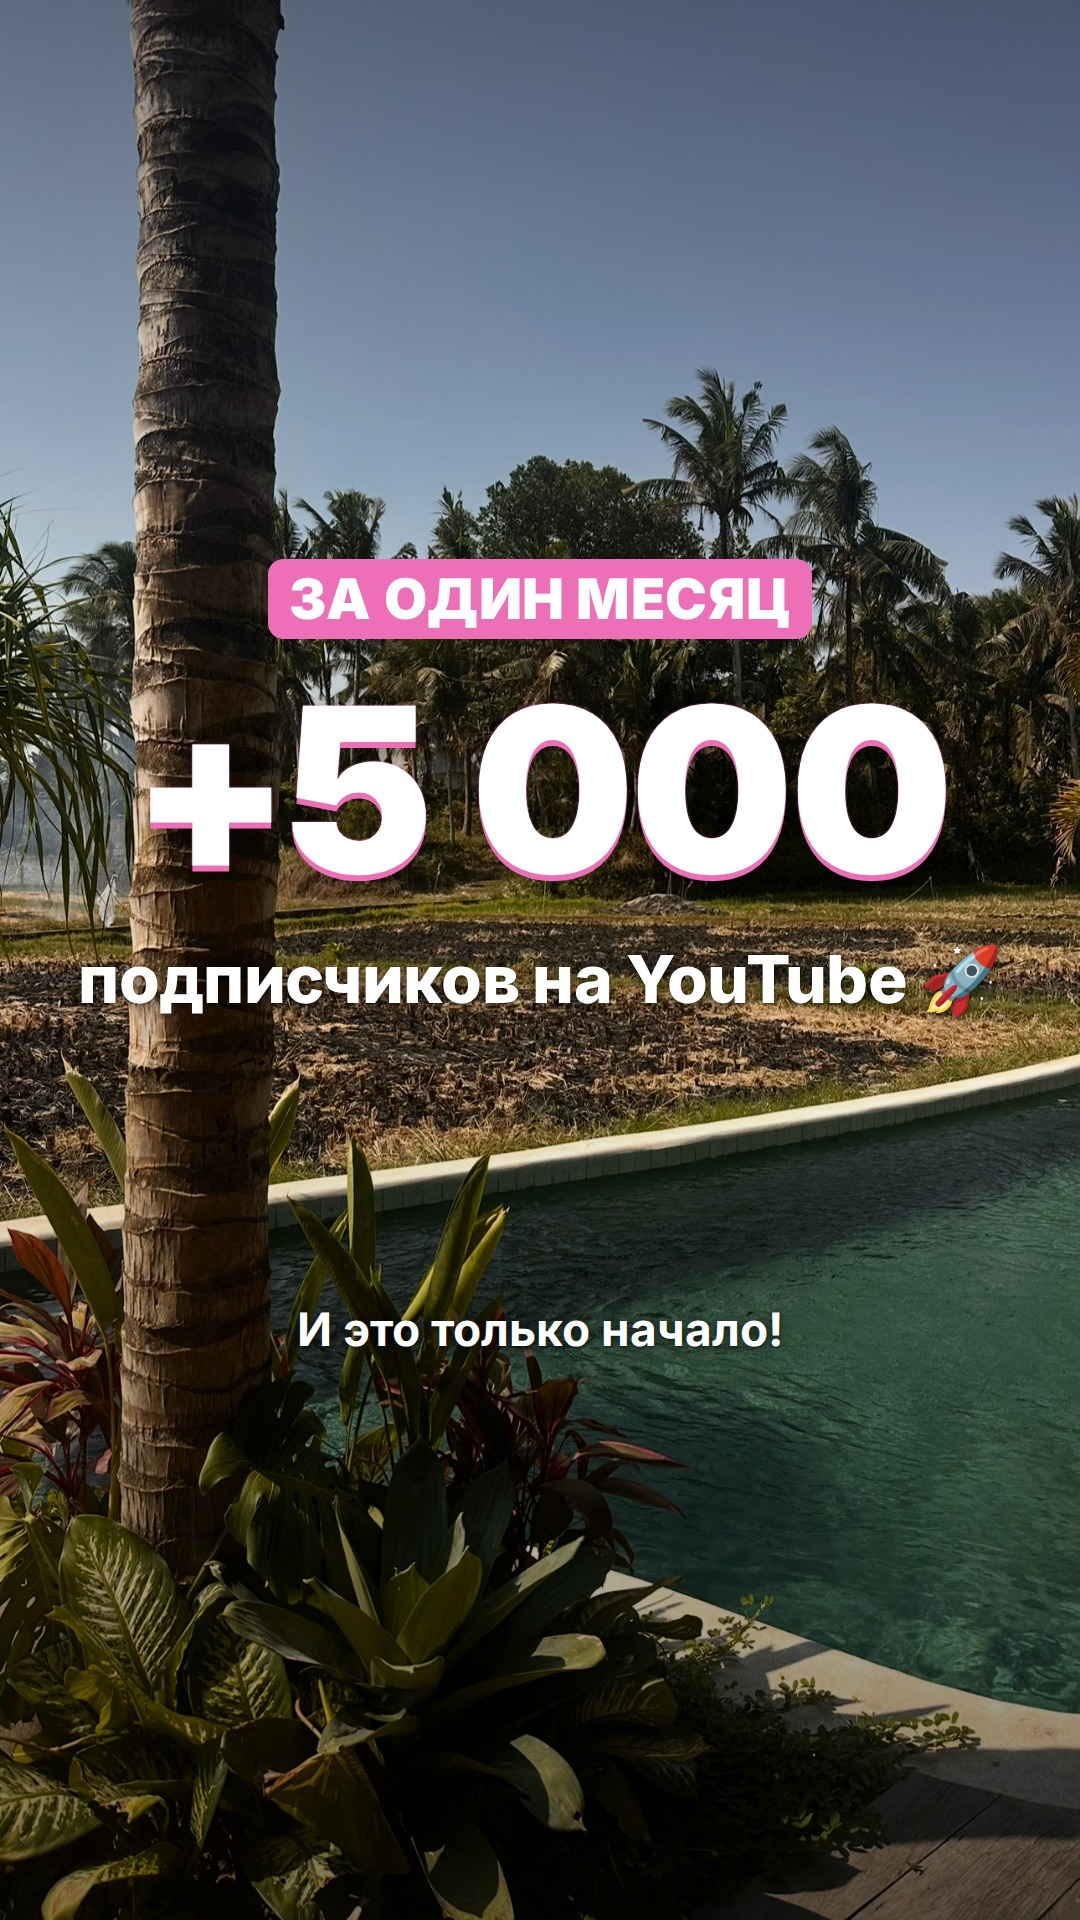
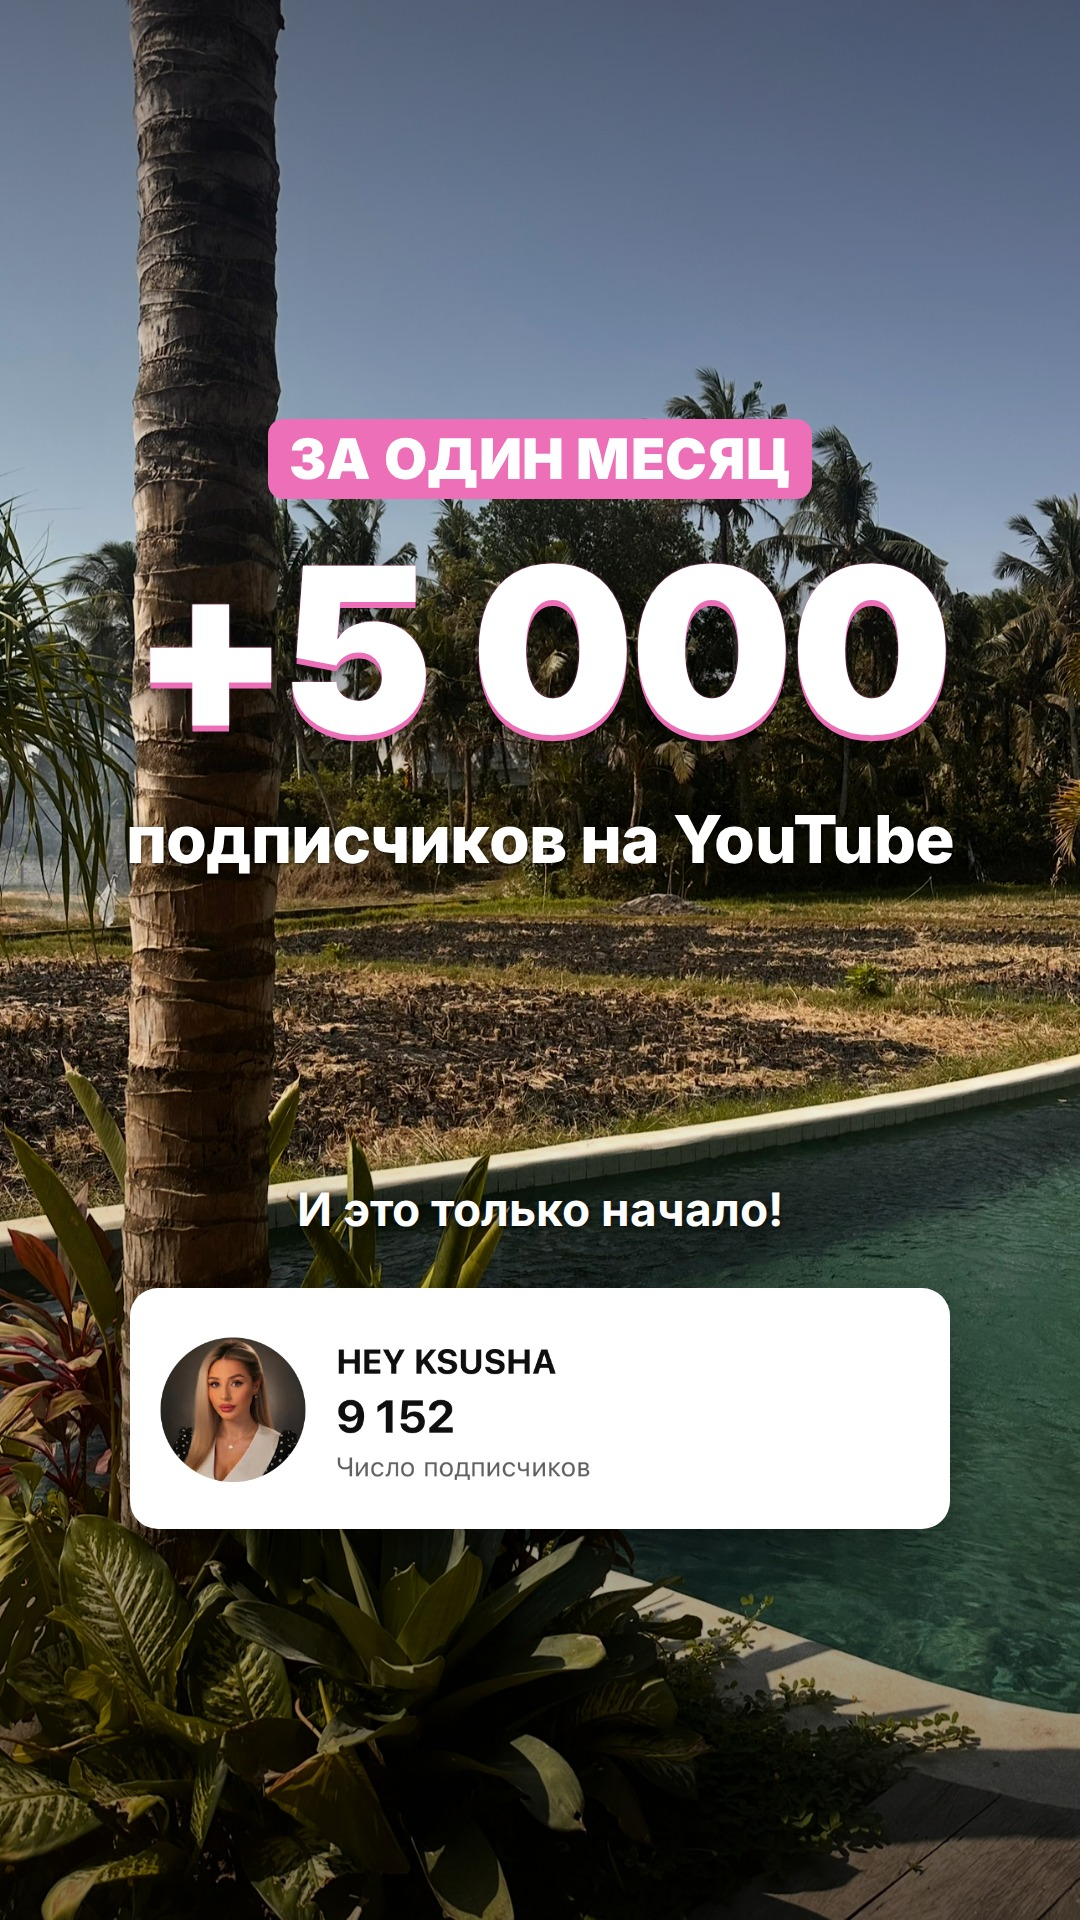
Сторис: без смайликов, белая плашка, скрин подписчиков, скрины благодарностей
Claude-Session: https://claude.ai/code/session_01QvxPhZFmoV4wpS6odsdhe8

Changed region(s): [[0.1222, 0.2188, 0.8861, 0.4688], [0.0917, 0.5938, 0.8861, 0.8125], [0.0611, 0.4688, 0.9167, 0.5312]]

diff --git a/guides/src/stories.js b/guides/src/stories.js
@@ -1,85 +1,85 @@
 // v2: одна мысль на сторис, лицо открыто, длинный текст — заметкой на нейтральном фоне
-module.exports = ({ P, B, E, I, GAP, p, T, SM, N }) => [
+module.exports = ({ P, W, B, E, I, GAP, p, T, SM, N }) => [
   // 1 — лицо в центре, текст сверху и снизу
-  { bg: '27.jpg', groups: [
+  { bg:'27.jpg', groups: [
     { top: 170, items: [P('ДЕВОЧКИ, Я В ШОКЕ!!!', 66)] },
-    { top: 1420, items: [T('Моя детская мечта<br>сбылась 🥹❤', 84)] },
+    { top: 1420, items: [W('Моя детская мечта сбылась', 64)] },
   ] },
   // 2 — +5&nbsp;000
-  { bg: '21.jpg', groups: [
-    { top: 560, items: [P('ЗА ОДИН МЕСЯЦ', 56), GAP(6), B('+5&nbsp;000', 230), GAP(10), T('подписчиков на YouTube 🚀', 66)] },
-    { top: 1300, items: [SM('И это только начало!', 46)] },
+  { bg:'21.jpg', groups: [
+    { top: 420, items: [P('ЗА ОДИН МЕСЯЦ', 56), GAP(6), B('+5&nbsp;000', 230), GAP(10), T('подписчиков на YouTube', 66)] },
+    { top: 1180, items: [SM('И это только начало!', 46), GAP(20), I('s06.PNG', 820)] },
   ] },
   // 3 — не цифры + заметка
-  { bg: '20.jpg', groups: [
-    { top: 260, items: [P('НО САМОЕ ЦЕННОЕ —', 56), T('даже не цифры…', 84)] },
-    { top: 760, items: [N(`За месяц — больше <span class=acc>1&nbsp;000</span> ваших комментариев и благодарностей 🥹<br><br>«Ксюша, ты поменяла мою жизнь!»<br>«Я так рада, что нашла твой канал!»`, 44)] },
+  { bg:'20.jpg', groups: [
+    { top: 200, items: [P('НО САМОЕ ЦЕННОЕ —', 56), T('даже не цифры,<br>а ваши благодарности', 76)] },
+    { top: 720, items: [I('s12.JPG', 920, -2), GAP(16), I('s16.JPG', 960, 1.5), GAP(16), I('s13.JPG', 960, -1)] },
   ] },
   // 4 — селфи, текст внизу
-  { bg: '17.jpg', pos: '50% 35%', groups: [
-    { top: 1330, items: [P('И Я ПОНЯЛА:', 52), T('длинный контент —<br>это моё ❤', 80), GAP(8), SM('Здесь я говорю с вами по душам,<br>как с подругами', 40)] },
+  { bg:'17.jpg', pos:'50% 35%', groups: [
+    { top: 1330, items: [P('И Я ПОНЯЛА:', 52), T('длинный контент —<br>это моё', 80), GAP(8), SM('Здесь я говорю с вами по душам,<br>как с подругами', 40)] },
   ] },
   // 5 — 80&nbsp;000
-  { bg: '23.jpg', groups: [
-    { top: 230, items: [P('МОИ РОЛИКИ НАБИРАЮТ', 54), GAP(4), B('80&nbsp;000', 210), GAP(8), T('просмотров 🔥', 70)] },
+  { bg:'23.jpg', groups: [
+    { top: 230, items: [P('МОИ РОЛИКИ НАБИРАЮТ', 54), GAP(4), B('80&nbsp;000', 210), GAP(8), T('просмотров', 70)] },
     { top: 1000, items: [I('s07.JPG', 960)] },
   ] },
   // 6 — комментарии
-  { bg: '03.jpg', groups: [
-    { top: 200, items: [P('ПОСМОТРИТЕ, ЧТО ВЫ ПИШЕТЕ 💌', 50)] },
-    { top: 560, items: [I('s12.JPG', 920, -2), GAP(16), I('s14.JPG', 960, 1.5), GAP(16), I('s10.JPG', 960, -1)] },
+  { bg:'03.jpg', groups: [
+    { top: 200, items: [P('ПОСМОТРИТЕ, ЧТО ВЫ ПИШЕТЕ', 50)] },
+    { top: 560, items: [I('s14.JPG', 960, -1.5), GAP(16), I('s10.JPG', 960, 1.5), GAP(16), I('s09.JPG', 960, -1)] },
   ] },
   // 7 — ради таких сообщений
-  { bg: '24.jpg', groups: [
-    { top: 180, items: [P('ВОТ РАДИ ТАКИХ СООБЩЕНИЙ', 54), T('я и делаю то, что делаю ❤', 64)] },
+  { bg:'24.jpg', groups: [
+    { top: 180, items: [P('ВОТ РАДИ ТАКИХ СООБЩЕНИЙ', 54), T('я и делаю то, что делаю', 64)] },
     { top: 640, items: [I('s15.JPG', 980, -1.5), GAP(20), I('s11.JPG', 980, 1.2)] },
   ] },
   // 8 — боль
-  { bg: '19.jpg', groups: [
-    { top: 620, items: [P('НО ЗНАЕТЕ, ЧТО МЕНЯ ЗАДЕВАЕТ? 💔', 52), GAP(10), T('Сколько девушек<br>прямо сейчас страдают<br>из-за отношений…', 80)] },
+  { bg:'19.jpg', groups: [
+    { top: 620, items: [P('НО ЗНАЕТЕ, ЧТО МЕНЯ ЗАДЕВАЕТ?', 52), GAP(10), T('Сколько девушек<br>прямо сейчас страдают<br>из-за отношений…', 80)] },
   ] },
   // 9 — заметка с фразами
-  { bg: '02.jpg', groups: [
+  { bg:'02.jpg', groups: [
     { top: 300, items: [P('Я КАЖДЫЙ ДЕНЬ ЧИТАЮ:', 56)] },
-    { top: 520, items: [N('💔 «Я опять выбрала не того…»<br>💔 «Он пропадает, а я продолжаю ждать…»<br>💔 «Он пишет раз в три дня, а я живу от сообщения до сообщения»<br>💔 «Все подруги замужем, а я одна»<br>💔 «Я красивая, успешная, но почему меня никто не выбирает?»<br><br><b>И многие думают, что проблема в них самих…</b>', 42)] },
+    { top: 520, items: [N('— «Я опять выбрала не того…»<br>— «Он пропадает, а я продолжаю ждать…»<br>— «Он пишет раз в три дня, а я живу от сообщения до сообщения»<br>— «Все подруги замужем, а я одна»<br>— «Я красивая, успешная, но почему меня никто не выбирает?»<br><br><b>И многие думают, что проблема в них самих…</b>', 42)] },
   ] },
   // 10 — опрос (место под стикер в центре)
-  { bg: '26.jpg', groups: [
-    { top: 150, items: [P('А ТЫ ХОТЯ БЫ РАЗ', 56), T('чувствовала что-то<br>подобное? 🤍', 80)] },
+  { bg:'26.jpg', groups: [
+    { top: 150, items: [P('А ТЫ ХОТЯ БЫ РАЗ', 56), T('чувствовала что-то<br>подобное?', 80)] },
   ] },
   // 11 — идея, заметка на размытом фоне
-  { bg: '18.jpg', filter: 'blur(34px) brightness(.95) saturate(1.2)', groups: [
-    { top: 300, items: [P('И ВОТ КАКАЯ ИДЕЯ', 56), T('пришла мне в голову… 🌸', 70)] },
-    { top: 700, items: [N(`Я физически не могу ответить на тысячи ваших сообщений.<br><br>А за каждым — настоящая девушка со своей историей.<br><br>Мне хочется не просто записывать видео, а <span class=acc>лично поговорить с вами</span> и помочь разобраться ❤`, 44)] },
+  { bg:'18.jpg', filter:'blur(34px) brightness(.95) saturate(1.2)', groups: [
+    { top: 300, items: [P('И ВОТ КАКАЯ ИДЕЯ', 56), T('пришла мне в голову…', 70)] },
+    { top: 700, items: [N(`Я физически не могу ответить на тысячи ваших сообщений.<br><br>А за каждым — настоящая девушка со своей историей.<br><br>Мне хочется не просто записывать видео, а <span class=acc>лично поговорить с вами</span> и помочь разобраться`, 44)] },
   ] },
   // 12 — закрытый девичник
-  { bg: '28.jpg', groups: [
-    { top: 150, items: [P('Я ВПЕРВЫЕ ПРОВОЖУ', 56), T('закрытый<br>онлайн-девичник 💗', 80)] },
+  { bg:'28.jpg', groups: [
+    { top: 150, items: [P('Я ВПЕРВЫЕ ПРОВОЖУ', 56), T('закрытый<br>онлайн-девичник', 80)] },
     { top: 640, items: [I('s29.PNG', 820, -2)] },
-    { top: 1500, items: [P('25 ОКТЯБРЯ · 15:00 МСК', 56), SM('бесплатно 🎀', 46)] },
+    { top: 1500, items: [P('25 ОКТЯБРЯ · 15:00 МСК', 56), SM('бесплатно', 46)] },
   ] },
   // 13 — что подготовила
-  { bg: '25.jpg', groups: [
-    { top: 200, items: [P('ЧТО Я ПОДГОТОВИЛА 🎁', 58)] },
-    { top: 420, items: [N(`🔍 Лично разберу <span class=acc>5 ваших историй</span> в прямом эфире<br><br>💸 Обычно такой разбор стоит <span class=acc>50&nbsp;000 ₽</span> — для вас бесплатно<br><br>💗 Подруги, которые тебя поймут<br><br>❤ Слова, которые могут поменять твою жизнь`, 44)] },
+  { bg:'25.jpg', groups: [
+    { top: 200, items: [P('ЧТО Я ПОДГОТОВИЛА', 58)] },
+    { top: 420, items: [N(`1. Лично разберу<span class=acc>5 ваших историй</span> в прямом эфире<br><br>2. Обычно такой разбор стоит<span class=acc>50&nbsp;000 ₽</span> — для вас бесплатно<br><br>3. Подруги, которые тебя поймут<br><br>4. Слова, которые могут поменять твою жизнь`, 44)] },
   ] },
   // 14 — исключительность, лицо карточкой
-  { bg: '18.jpg', filter: 'blur(34px) brightness(.9) saturate(1.2)', groups: [
-    { top: 200, items: [P('ТАКОГО Я ЕЩЁ<br>НИКОГДА НЕ ДЕЛАЛА 🤫', 54)] },
+  { bg:'18.jpg', filter:'blur(34px) brightness(.9) saturate(1.2)', groups: [
+    { top: 200, items: [P('ТАКОГО Я ЕЩЁ<br>НИКОГДА НЕ ДЕЛАЛА', 54)] },
     { top: 420, items: [I('18.jpg', 960, -1.5)] },
-    { top: 1080, items: [T(`❗ Записи не будет`, 84), GAP(6), SM('Мест в комнате немного', 48)] },
+    { top: 1080, items: [T(`Записи не будет`, 84), GAP(6), SM('Мест в комнате немного', 48)] },
   ] },
   // 15 — ХОЧУ
-  { bg: '01.jpg', pos: '30% 50%', groups: [
-    { top: 1080, items: [P('ХОЧЕШЬ ПОПАСТЬ? 💌', 58), T(`Напиши мне в директ<br>«ХОЧУ»`, 84), GAP(6), SM('— пришлю ссылку лично', 46)] },
+  { bg:'01.jpg', pos:'30% 50%', groups: [
+    { top: 1080, items: [P('ХОЧЕШЬ ПОПАСТЬ?', 58), T(`Напиши мне в директ<br>«ХОЧУ»`, 84), GAP(6), SM('— пришлю ссылку лично', 46)] },
   ] },
   // 16 — 5 историй, вопрос
-  { bg: '22.jpg', groups: [
-    { top: 1150, items: [P('Я РАЗБЕРУ ТОЛЬКО 5 ИСТОРИЙ 🔍', 50), T('А вдруг одна из них —<br>твоя? 🥹', 78), GAP(6), SM('Можно анонимно 🤫', 44)] },
+  { bg:'22.jpg', groups: [
+    { top: 1150, items: [P('Я РАЗБЕРУ ТОЛЬКО 5 ИСТОРИЙ', 50), T('А вдруг одна из них —<br>твоя?', 78), GAP(6), SM('Можно анонимно', 44)] },
   ] },
   // 17 — финал, отсчёт
-  { bg: '21.jpg', filter: 'saturate(1.1)', groups: [
-    { top: 300, items: [P('Я УЖЕ В ПРЕДВКУШЕНИИ', 56), T('нашей встречи!!! 🥹', 80), GAP(6), SM('Уже выбираю, в чём буду с вами 🙈', 44)] },
-    { top: 1400, items: [P('25 ОКТЯБРЯ · 15:00 МСК', 56), SM('Заходи, пока комната открыта 💗', 46)] },
+  { bg:'21.jpg', filter:'saturate(1.1)', groups: [
+    { top: 300, items: [P('Я УЖЕ В ПРЕДВКУШЕНИИ', 56), T('нашей встречи!!!', 80), GAP(6), SM('Уже выбираю, в чём буду с вами', 44)] },
+    { top: 1400, items: [P('25 ОКТЯБРЯ · 15:00 МСК', 56), SM('Заходи, пока комната открыта', 46)] },
   ] },
 ];
